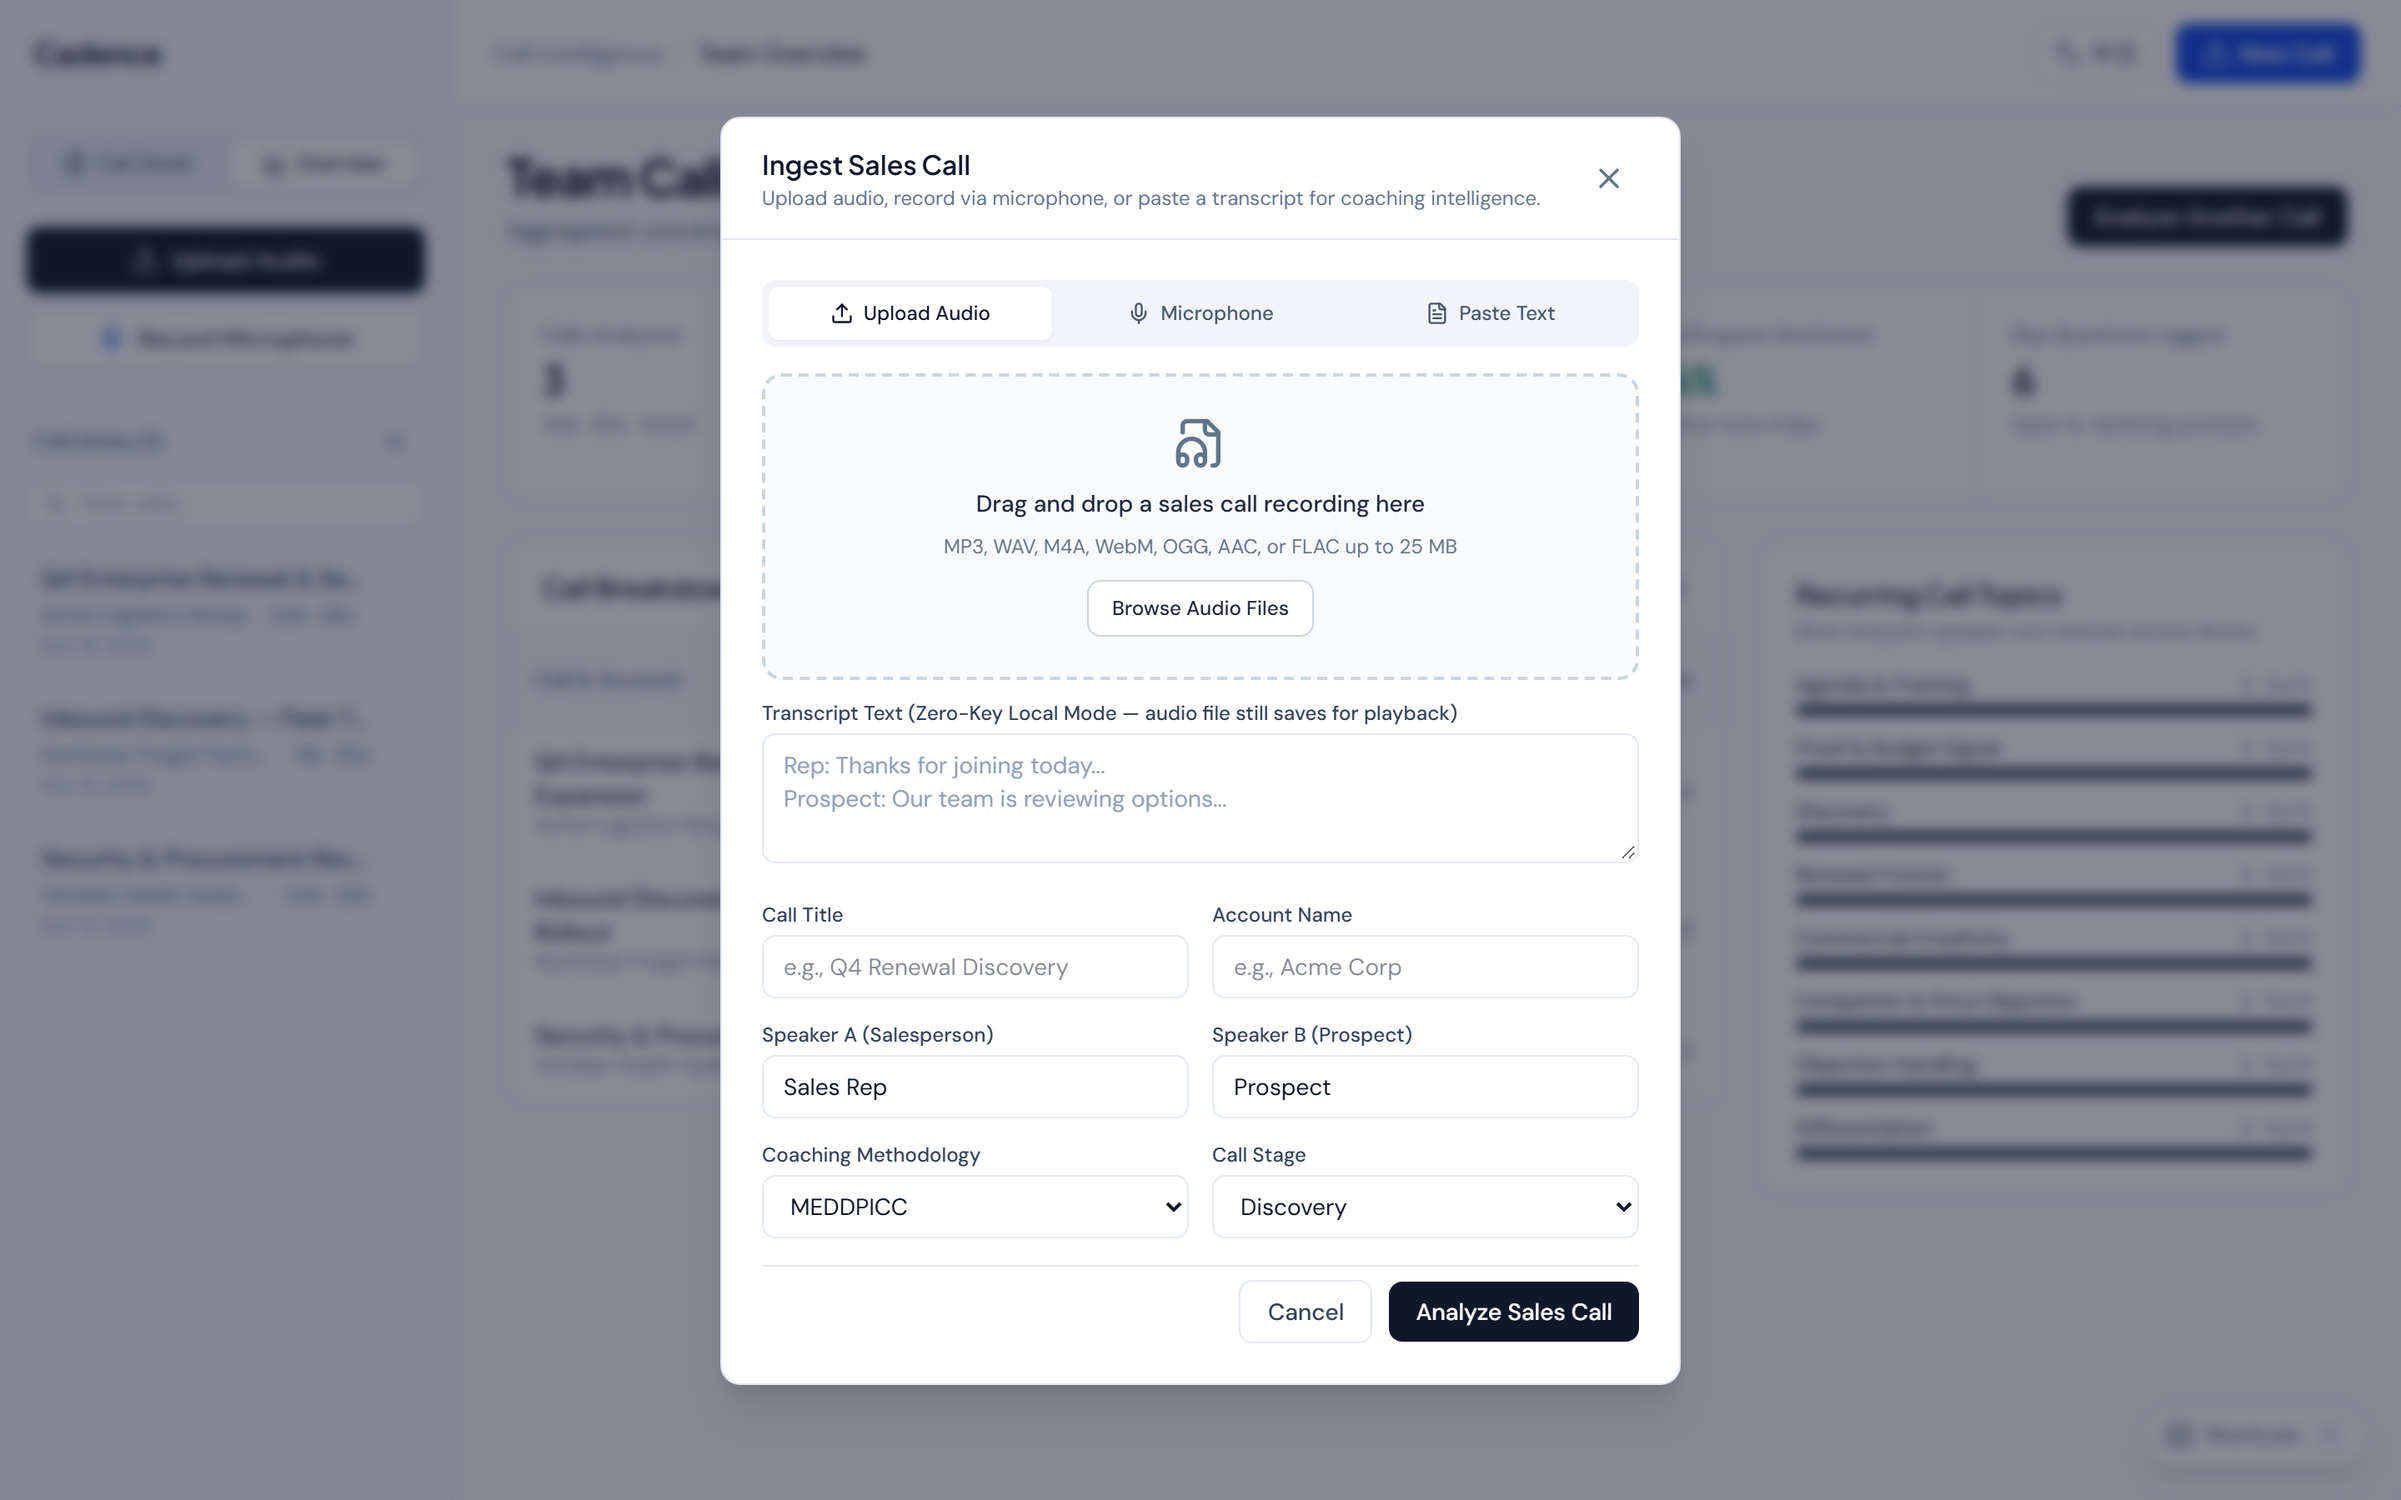
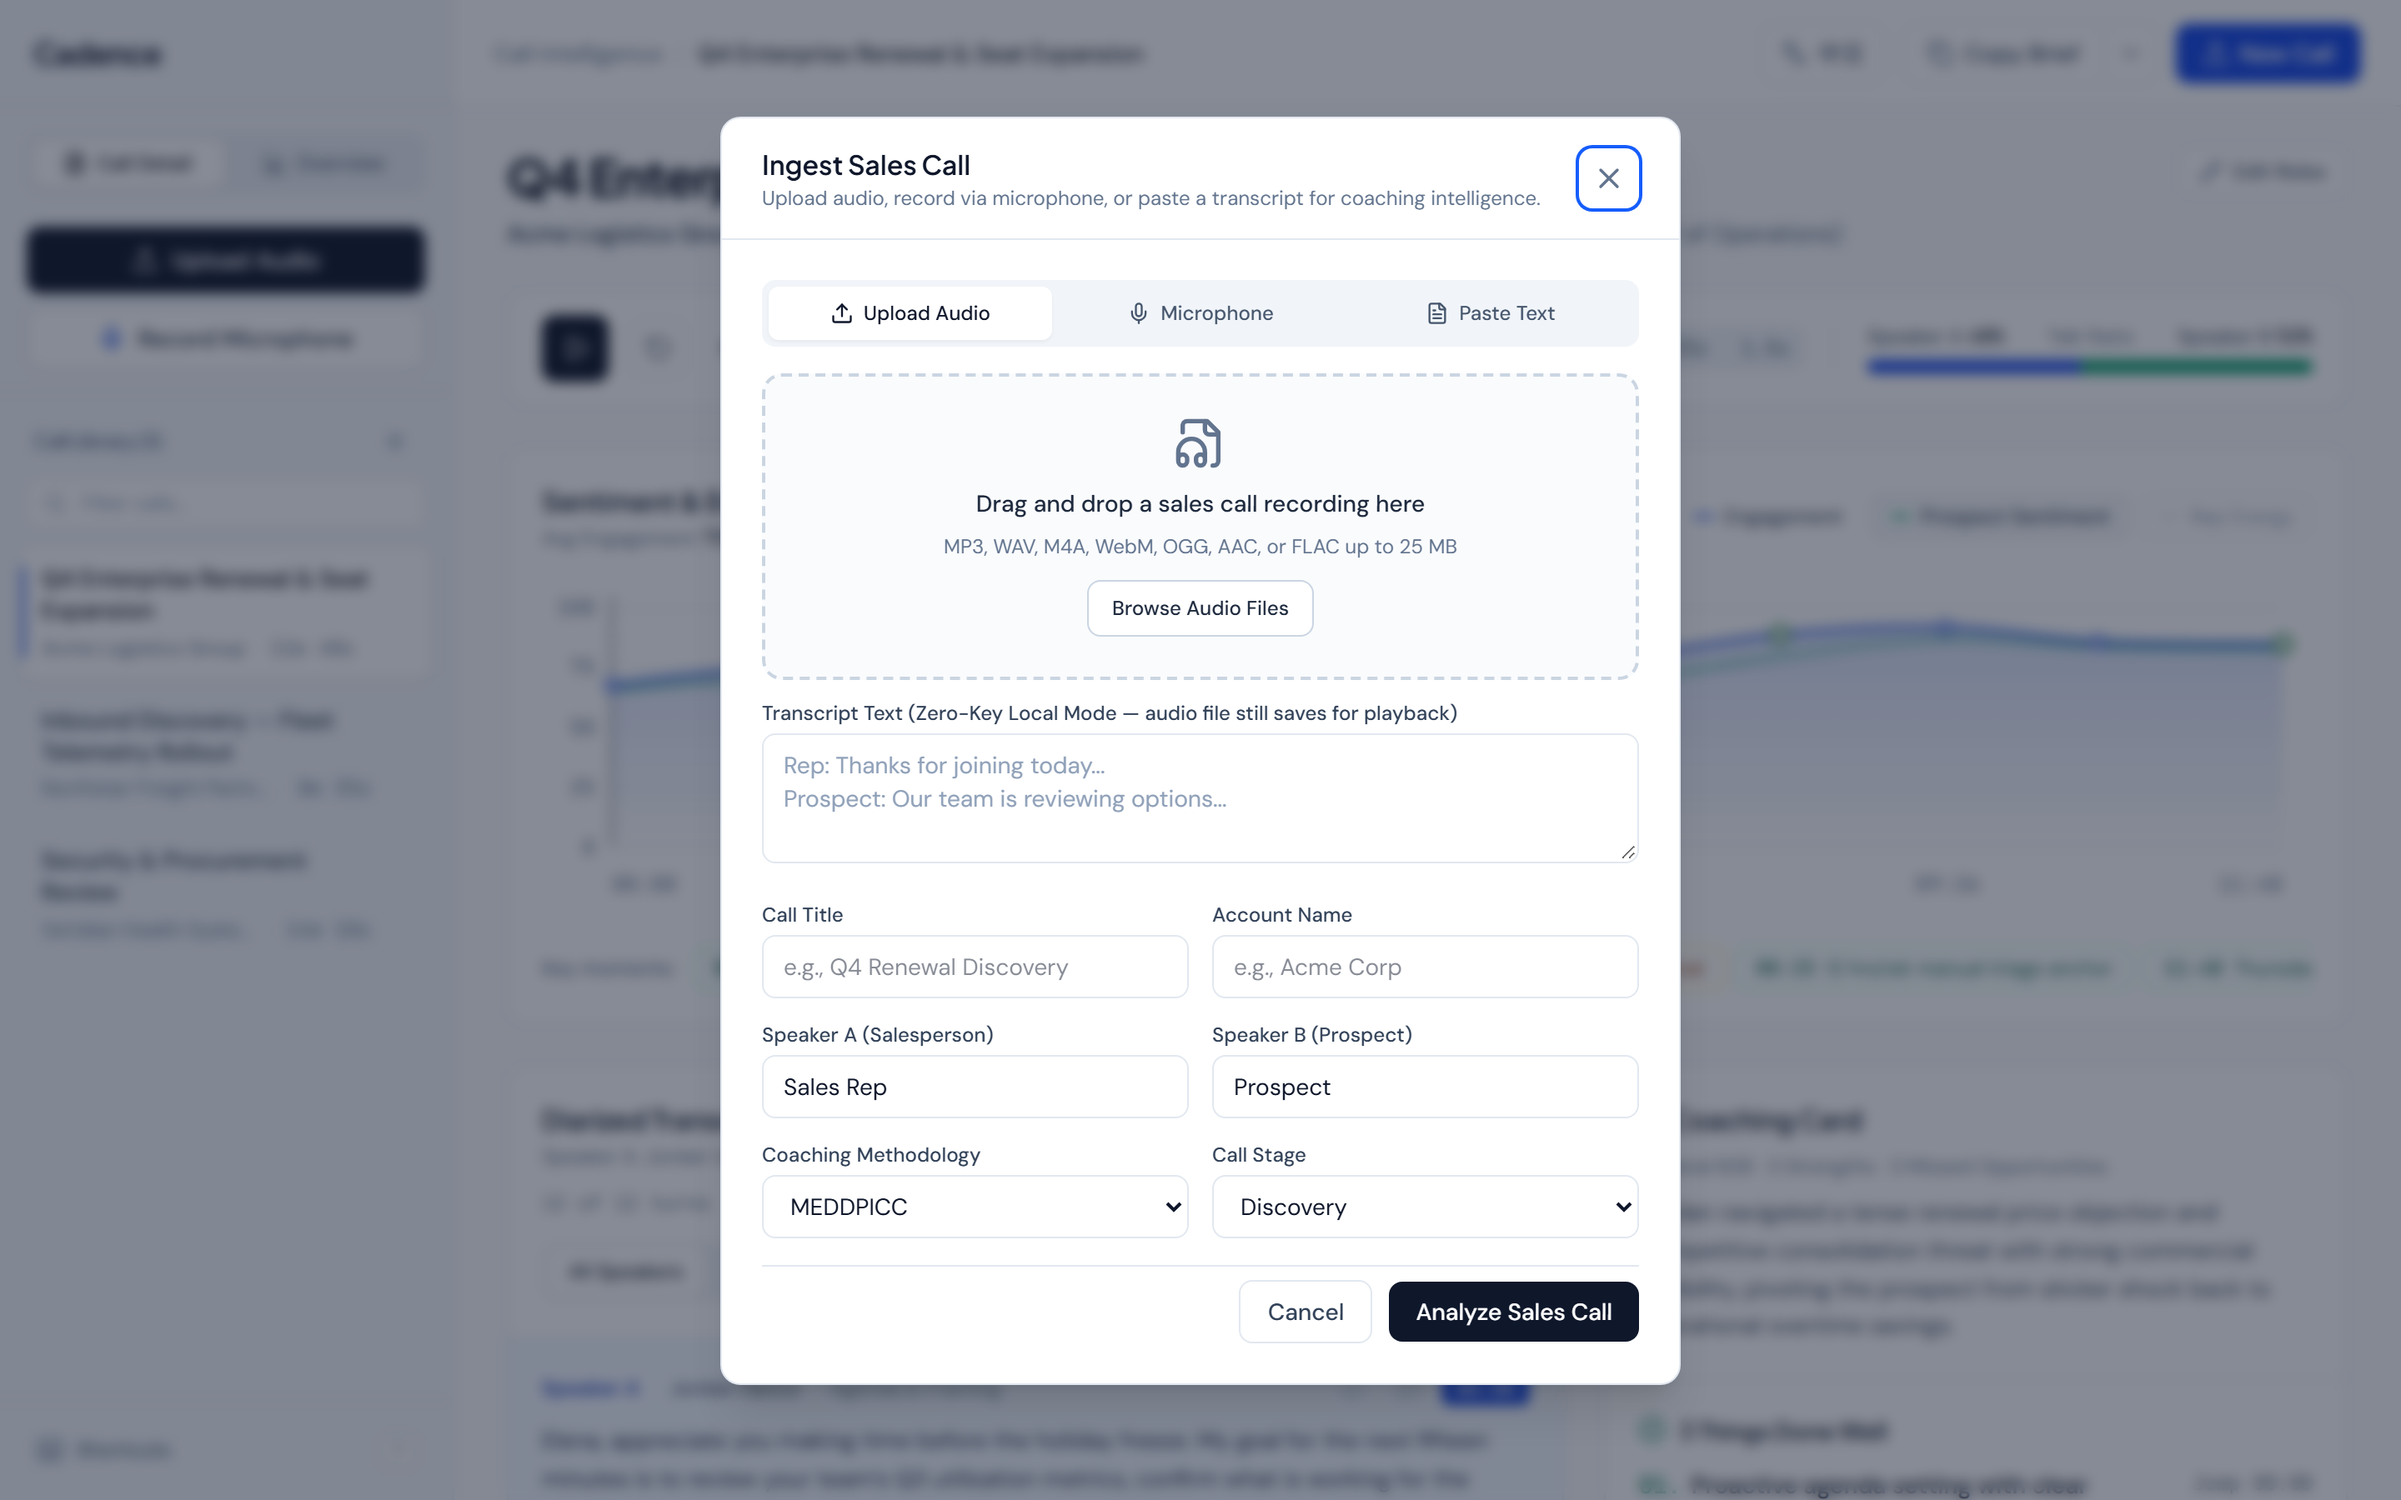
[文档] 更新 1.2.0 截图与工程复盘
- 四张截图按新布局重拍：首屏可见逐字稿与教练卡、概览页改为 Next Step Tracker
- README 更新为 41 个用例 / 11 项冒烟检查，补目录结构与质量门禁说明
- CASE_STUDY 新增「SVG 等比放大吃掉首屏」的缺陷复盘，并如实说明没做浏览器 E2E
- CHANGELOG 记录 1.2.0 的 Added / Changed / Fixed

diff --git a/docs/CASE_STUDY.md b/docs/CASE_STUDY.md
@@ -59,6 +59,12 @@ function serialize<T>(key: string, task: () => Promise<T>): Promise<T> {
 
 还有一个不显眼但会咬人的坑：`addCallRecord` 在写锁内部调用 `readAllCalls`，而后者在文件不存在时也会申请同一把锁，形成自锁。修复方式是在进入写锁前先完成首次播种，锁内只做纯读写。这个问题同样有测试兜底。
 
+### 3.1 另一类缺陷：SVG 被等比放大，吃掉了首屏
+
+`viewBox="0 0 760 236"` 配 `class="w-full h-auto"`，在 1440 宽的容器里会被等比放大到约 419px 高；加上标题、图例与里程碑，整张卡片接近 500px —— 首屏 60% 被一张图占掉，逐字稿和教练卡全被推到折叠线以下。
+
+修复不是简单写死高度：`preserveAspectRatio="none"` 会把线宽和文字横向拉扁。正确做法是用 `ResizeObserver` 测量容器宽度，把 `viewBox` 的宽度当成真实像素，配合固定 200px 高度做 1:1 映射。线宽、字号、刻度全部保持原样，同时首屏能露出逐字稿的前两轮和教练卡结论。
+
 ## 4. 健壮性与安全清单
 
 - **上传**：扩展名 + MIME 双重校验，25 MB 上限，文件名白名单化，磁盘路径再做 `path.basename` 与目录前缀校验，阻断路径穿越。
@@ -75,12 +81,12 @@ function serialize<T>(key: string, task: () => Promise<T>): Promise<T> {
 - **类型化 API 客户端**：`src/api/client.ts` 把前端依赖的全部端点收口到一个 `request<T>()`，统一 `ApiError`（含 `status` 与 `offline` 标记），组件里不再出现 `fetch` + `response.ok` + `as` 的重复三元组。
 - **严格类型**：`strict: true`、`noUnusedLocals`、`noUnusedParameters`、`noFallthroughCasesInSwitch`，零错误。
 - **Hooks 质量**：修复了 `useEffect` 依赖缺失、闭包引用未声明函数、无意义初始赋值等问题；`rules-of-hooks` 与 `exhaustive-deps` 作为 ESLint 错误/警告保留。
-- **可访问性**：对话框 `aria-modal` + 焦点语义、图表 `aria-label`、快捷键在输入框内自动抑制、`prefers-reduced-motion` 降级。
+- **可访问性**：对话框 `aria-modal` + 焦点陷阱（`useDialogFocus`）、Tab 在首尾循环、关闭后焦点归还触发者、图表 `aria-label`、快捷键在输入框内自动抑制、`prefers-reduced-motion` 降级。
 - **包体**：Vite `manualChunks` 拆出 React 与图标 vendor，入口从 ~345 kB 降到 ~121 kB（gzip 32 kB），部署后应用壳可长期缓存。
 
 ## 6. 测试策略
 
-35 个用例、行覆盖率约 92%：
+41 个用例、行覆盖率约 92%：
 
 | 层                     | 覆盖内容                                                            |
 | :--------------------- | :------------------------------------------------------------------ |
@@ -88,8 +94,12 @@ function serialize<T>(key: string, task: () => Promise<T>): Promise<T> {
 | `server/localAnalyzer` | 说话人切分、情绪分类、教练卡片结构、追问回复                        |
 | `src/api/client`       | 响应解包、JSON/multipart 分支、离线与错误映射                       |
 | `src/utils`            | 话术比例、互动摘要、对话指标、导出格式、快捷键解析、i18n 字典完整性 |
+| `src/utils/focus`      | Tab/Shift+Tab 在对话框边界循环、逃逸后拉回                          |
 
-**刻意没测什么：** React 组件的渲染与交互（当前没有 DOM 环境）、真实 Provider 的网络调用（需要密钥且不稳定）、端到端流程（成本高且收益低于纯逻辑层）。下一步会补 React Testing Library 的组件测试与一条 Playwright 冒烟路径，而不是为了覆盖率数字堆快照。
+**刻意没测什么：** React 组件的渲染快照、真实 Provider 的网络调用（需要密钥且不稳定）、浏览器级
+E2E。取而代之的是一条 `scripts/smoke.mjs`：用真实进程 + 临时数据目录跑 11 项契约检查（静态托管、
+资源可达、健康检查、CRUD 往返、零密钥分析链路、JSON 404、路径穿越拒绝、请求 ID 回显），并在 CI
+里独立成一个 job。组件交互目前靠类型、lint 与截图回归兜底 —— 这是明确的欠账，而不是假装覆盖到了。
 
 ## 7. 已知不足与下一步
 

diff --git a/CHANGELOG.md b/CHANGELOG.md
@@ -4,7 +4,45 @@ All notable changes to this project are documented in this file. The format
 follows [Keep a Changelog](https://keepachangelog.com/en/1.1.0/) and the project
 adheres to [Semantic Versioning](https://semver.org/spec/v2.0.0.html).
 
-## [1.1.0] — 2026-11-24
+## [1.2.0] — 2026-11-25
+
+### Added
+
+- **Dialog focus management** (`useDialogFocus` + `resolveTabTarget`): dialogs
+  focus their first control on mount, keep Tab and Shift+Tab inside the
+  boundary, and hand focus back to the trigger on close. Six unit tests cover
+  the wrap-around rules.
+- **`npm run smoke`**: boots the real server against a throwaway data directory
+  and asserts 11 contract checks — static hosting, asset serving, health,
+  capabilities, CRUD round-trips, the zero-key analysis pipeline, JSON 404s,
+  path traversal rejection, and request-id echo. Wired into CI as a separate
+  job.
+- **Next Step Tracker** on the team overview: every coaching card's next step
+  with its done / open state, replacing the previous topic bar chart.
+
+### Changed
+
+- **Sentiment chart is now measured, not stretched.** The SVG tracks its
+  container width through a `ResizeObserver` and renders at a fixed 200px
+  height with a 1:1 pixel mapping, so stroke weights and labels stay correct on
+  ultrawide screens. The workspace now shows the transcript and coaching card
+  above the fold.
+- Key moments are a single horizontally scrollable row instead of wrapping into
+  a second line.
+- The floating shortcuts button moved into the sidebar footer; it used to cover
+  the bottom of the coaching card.
+- Library rows are two lines: the title clamps to two lines and the meta row
+  keeps the duration visible while the account name truncates.
+- Below 640px the New Call button collapses to its icon, so the header stops
+  overflowing.
+
+### Fixed
+
+- **Hydration race**: a call added while the initial `/api/calls` request was
+  still in flight could be replaced by the older server snapshot.
+- **Stranded optimistic updates**: a failed `PATCH` or `DELETE` now resyncs from
+  the server instead of leaving the UI showing a change that was never persisted.
+- Transcript search and sidebar metadata no longer clip at common widths.
 
 ### Added
 

diff --git a/CONTRIBUTING.md b/CONTRIBUTING.md
@@ -20,7 +20,7 @@ the quality gate every change must pass, and the conventions used in this reposi
 3. **Make the change**, then run the full gate:
 
    ```bash
-   npm run verify   # format check → ESLint + tsc → tests → production build
+   npm run verify   # format check → ESLint + tsc → tests → production build → smoke
    ```
 
 4. **Commit** with the repository's message template (see below) and open a pull
@@ -36,6 +36,7 @@ Every pull request must pass the same checks that CI runs on Node 20, 22, and 24
 | `npm run lint`          | ESLint 10 flat config + `tsc --noEmit` in strict mode |
 | `npm test`              | `node:test` unit suites                               |
 | `npm run build`         | Production Vite bundle                                |
+| `npm run smoke`         | Boots the server and runs the end-to-end API contract |
 | `npm run test:coverage` | Coverage report (informational, not a hard threshold) |
 
 ## Guidelines
